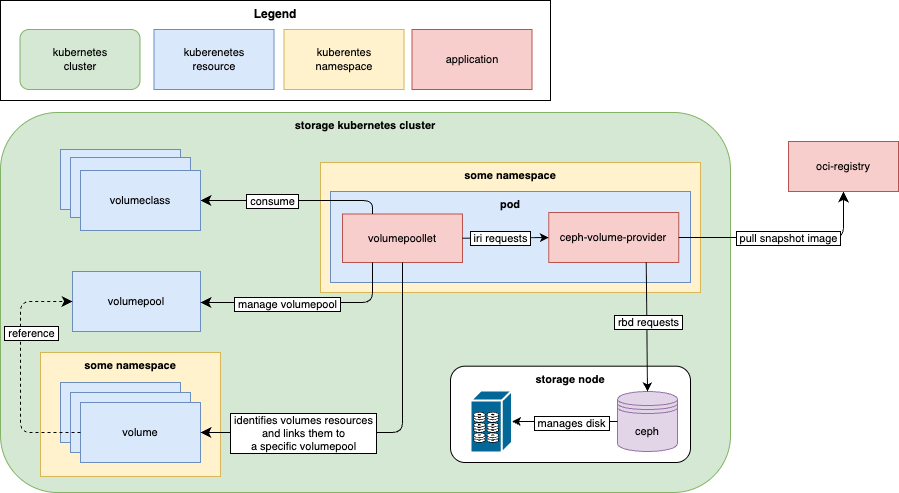
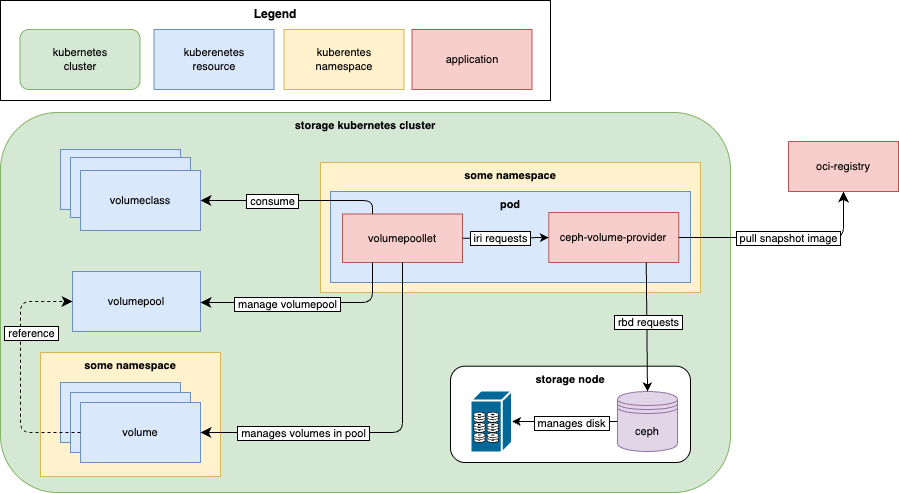
docs: high-level architecture overview of ceph-bucket-provider

Changed region(s): [[0.2492, 0.8215, 0.436, 0.9432]]

diff --git a/docs/architecture/ceph-bucket-provider-architecture.md b/docs/architecture/ceph-bucket-provider-architecture.md
@@ -1,0 +1,77 @@
+# High-Level Architecture of ceph-bucket-provider
+
+This document provides a high-level overview of the `ceph-bucket-provider`.
+It explains the bucket provider's function within the `ironcore` ecosystem and
+its interaction with other components using a communication diagram.
+
+| ![high-level-architecture](../assets/high-level-architecture-ceph-bucket-provider.drawio.png) |
+| :---: |
+| *High-level architecture design of components related to the ceph-bucket-provider* |
+
+## ceph-bucket-provider
+
+The `ceph-bucket-provider` is a stateless, pluggable component in the `ironcore` ecosystem that implements the [`ironcore Runtime Interface`][bucketRuntime] (IRI). It translates high-level bucket requests into Kubernetes resources, delegating actual bucket provisioning and RGW operations to the Rook Operator and the underlying Ceph cluster. It creates and manages Kubernetes CRDs (like `ObjectBucketClaim (OBC)`). It runs as a dedicated application that:
+
+- Listens for `gRPC` requests from the `bucketpoollet`.
+- Manages the lifecycle of an object bucket (create, delete, configure policies).
+- Initiates bucket provisioning workflows that the Rook Operator executes by configuring the required Ceph RGW resources.
+
+**Key responsibilities:**
+
+- Provision new object buckets based on `OBC` requests in Ceph RGW.
+- Generate and return credentials (Secrets) and connection information (ConfigMaps).
+- Interface directly with Ceph RADOS Gateway (RGW) for object storage operations.
+
+## Bucketpoollet
+
+`bucketpoollet` is a controller within the `ironcore` framework that:
+
+- When a claim is detected, it sends `gRPC` requests to `ceph-bucket-provider` for actual bucket provisioning.
+- Links object resources to the correct `bucketpool`, ensuring consistent resource allocation and lifecycle management.
+
+It acts as an orchestrator, managing the lifecycle of bucket requests and updating their status in the `ironcore API`.
+
+## BucketClass
+
+A `bucketclass` defines policies for bucket creation:
+
+- Specifies the target `bucketpool` or storage backend (such as Ceph RGW).
+- It is referenced by an `OBC` to determine how and where the bucket should be provisioned.
+
+## ObjectBucketClaim (OBC) and ObjectBucket (OB)
+
+- **OBC:** A user or application request for a new object storage bucket. It is a Kubernetes namespaced resource requested by applications, similar to a `PersistentVolumeClaim`, that triggers the provisioning process and requests a new object bucket.
+- **OB:** Represents the actual bucket once provisioned in the storage backend, linked to its corresponding  `OBC`.
+
+**Claim binding flow:**
+
+1. `OBC` references a `bucketclass`.
+1. The `ceph-bucket-provider` provisions a new bucket and creates the corresponding `OB`.
+1. Access credentials (`Secret`) and endpoint info (`ConfigMap`) are injected into the `OBC’s` namespace for application use.
+
+## Secret and ConfigMap
+
+Once a bucket is provisioned, the `ceph-bucket-provider` creates a `Secret` containing the access/secret keys and `ConfigMap` containing the bucket endpoint information.
+
+These resources include the connection endpoint, bucket name, and credentials required for application access.
+They can be mounted into application pods, enabling them to connect to the bucket via the S3 API.
+
+## Rook Operator
+
+The Rook Operator acts as a Kubernetes Operator for managing Ceph storage clusters:
+
+- Ensures that the RGW service is healthy and available.
+- Routes the request to Ceph for bucket creation.
+- Creates the corresponding ObjectBucket resource upon successful provisioning.
+
+## Ceph
+
+[Ceph] is an open-source, distributed storage system that provides scalability and fault tolerance.
+Within this architecture:
+
+- Stores and manages object buckets as the primary object storage backend.
+- Distributes data and metadata across a cluster of nodes to eliminate any single point of failure.
+- Provides the S3/Swift API interface via `RADOS Gateway (RGW)`, which is leveraged by the `ceph-bucket-provider`.
+
+[bucketRuntime]: <https://ironcore.dev/iaas/architecture/runtime-interface.html>
+[Ceph]: <https://ceph.io/en/>